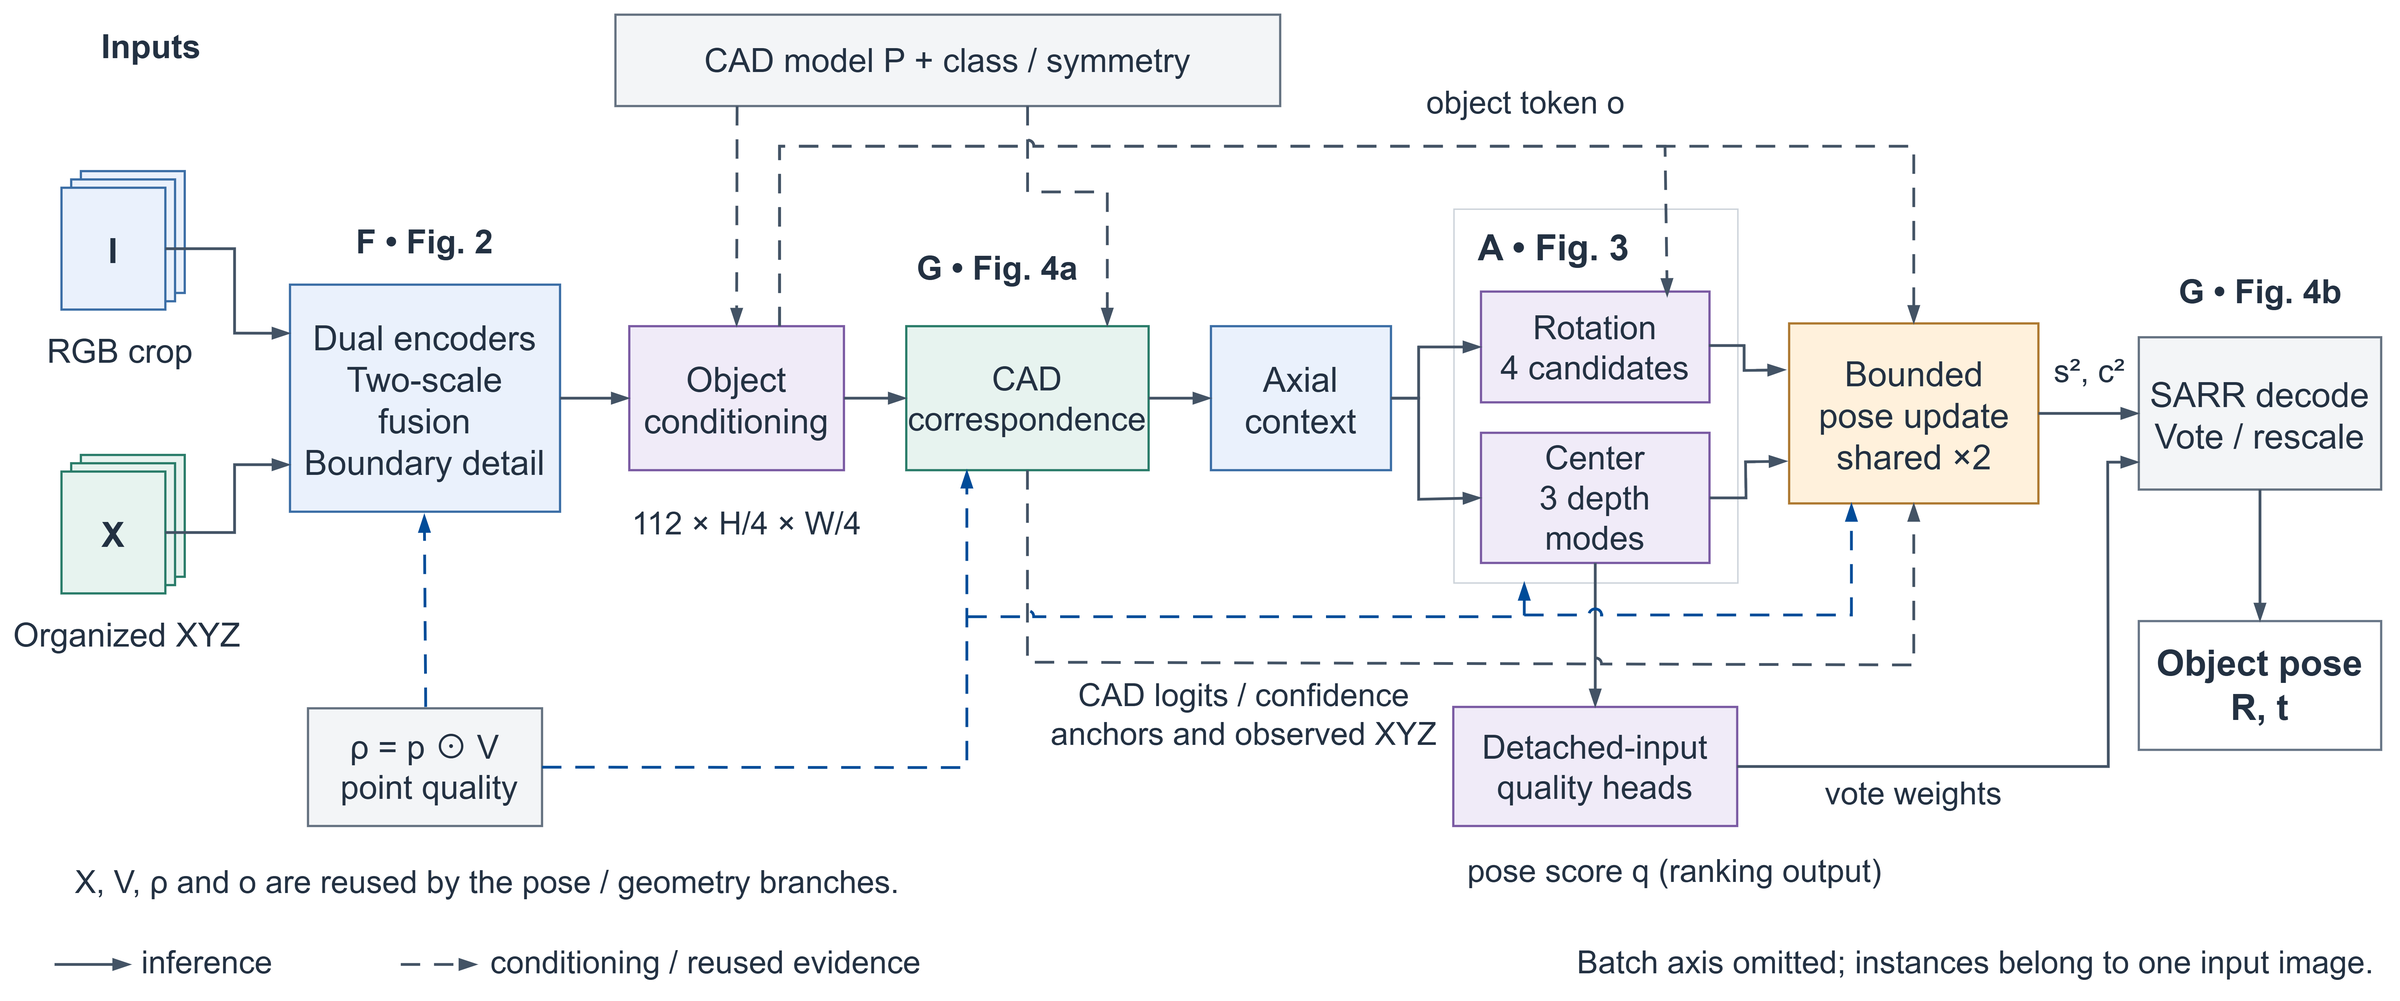
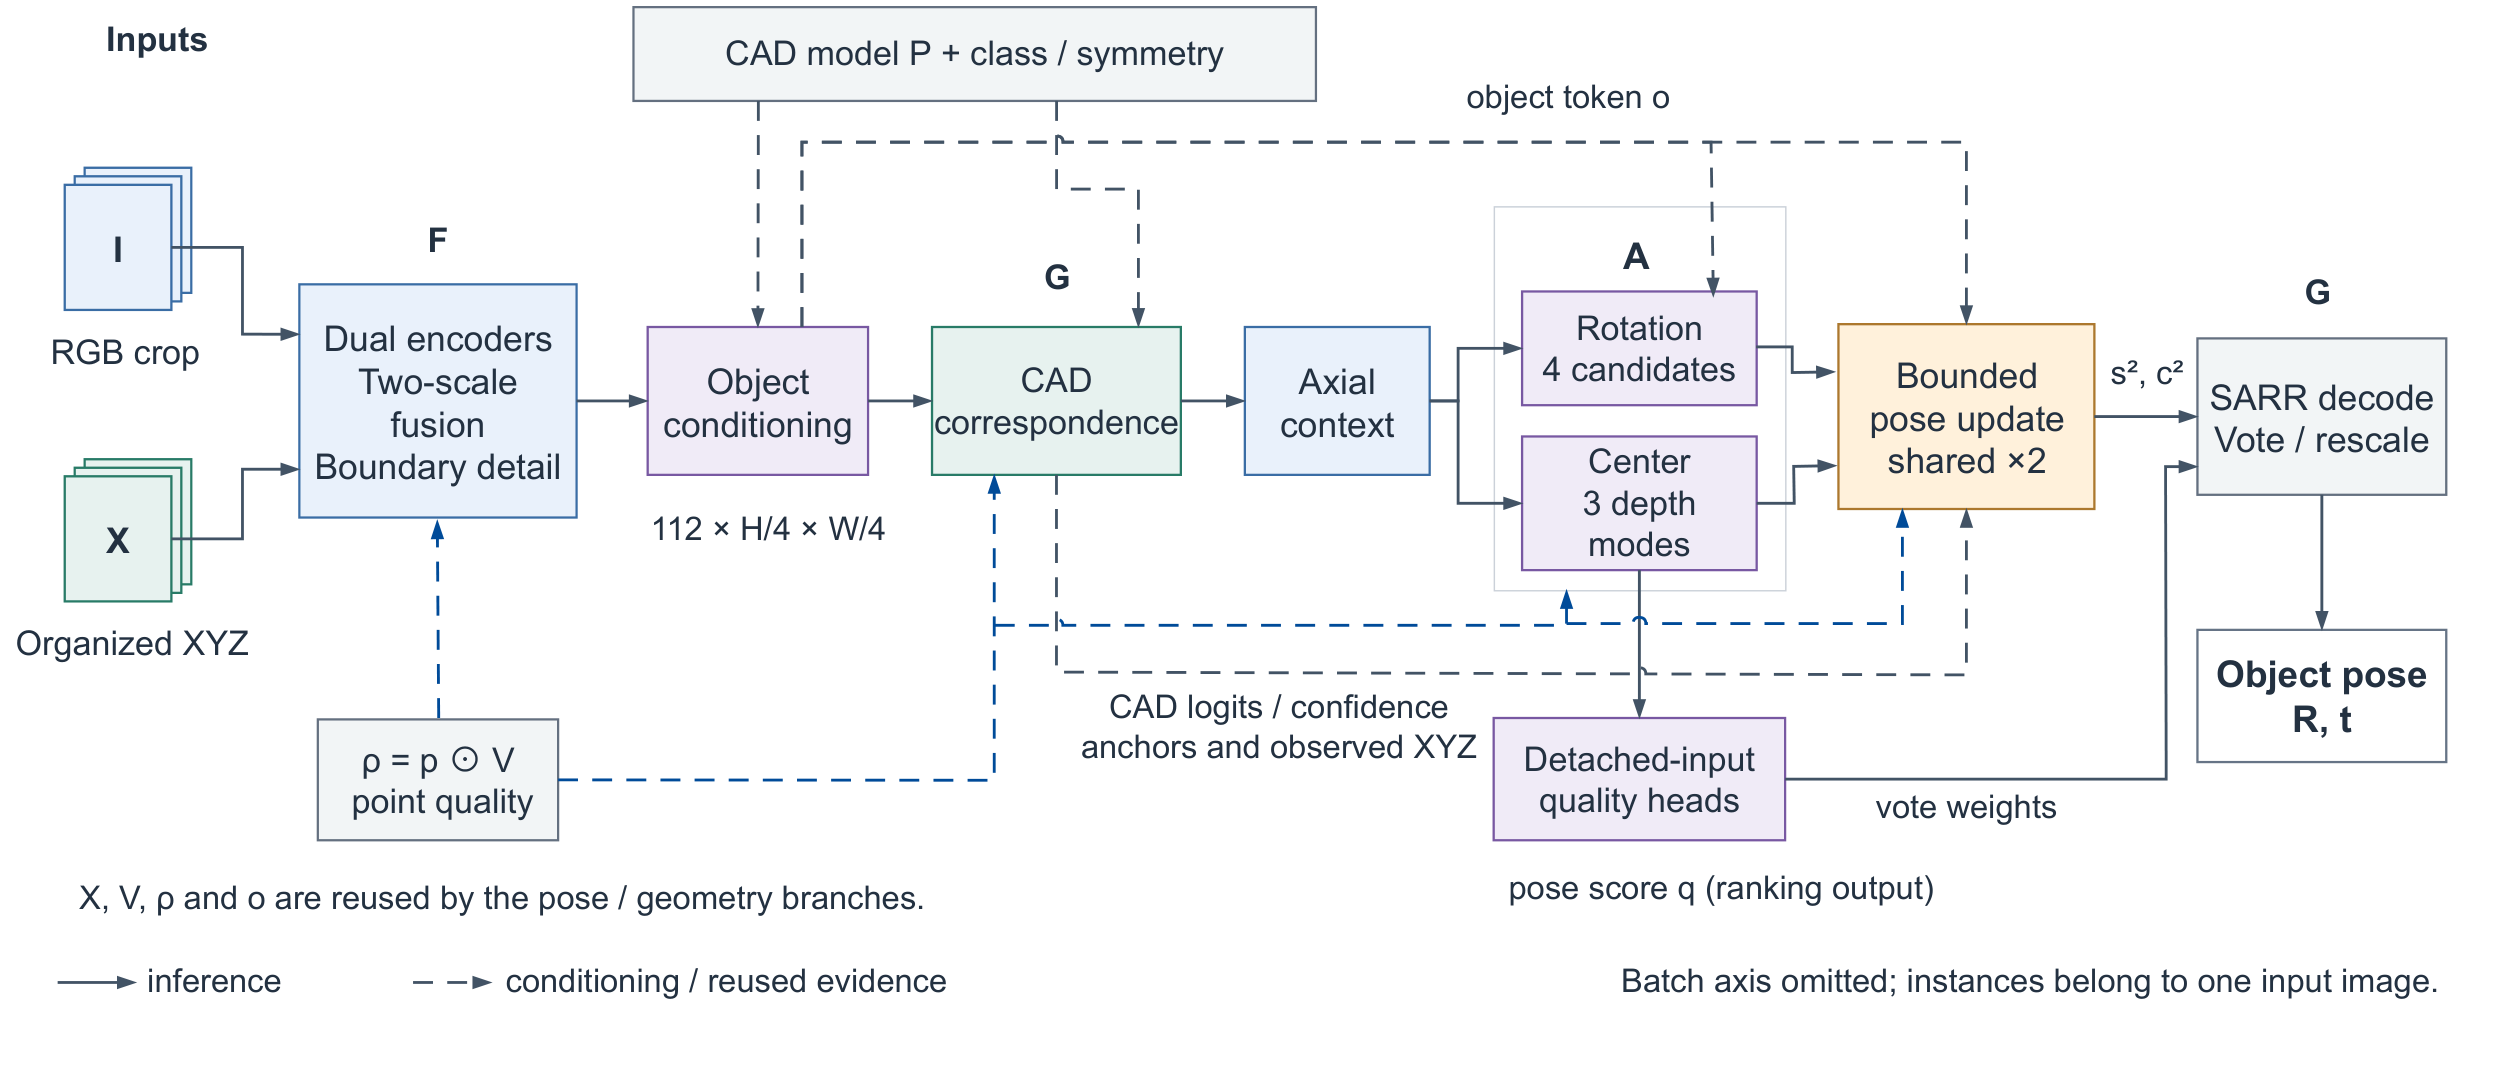
Update overview diagram from journal architecture PDF

diff --git a/README.md b/README.md
@@ -11,7 +11,7 @@ end-to-end detection-track evaluation entry point, and the released weights.
 
 ## Overview
 
-![RVC6D architecture](assets/overview.png)
+[![RVC6D architecture](assets/overview.png)](assets/overview.pdf)
 
 **RVC6D** takes an aligned RGB crop and organized XYZ coordinates, together
 with a class-specific CAD model, and predicts the object pose (R, t) in the
